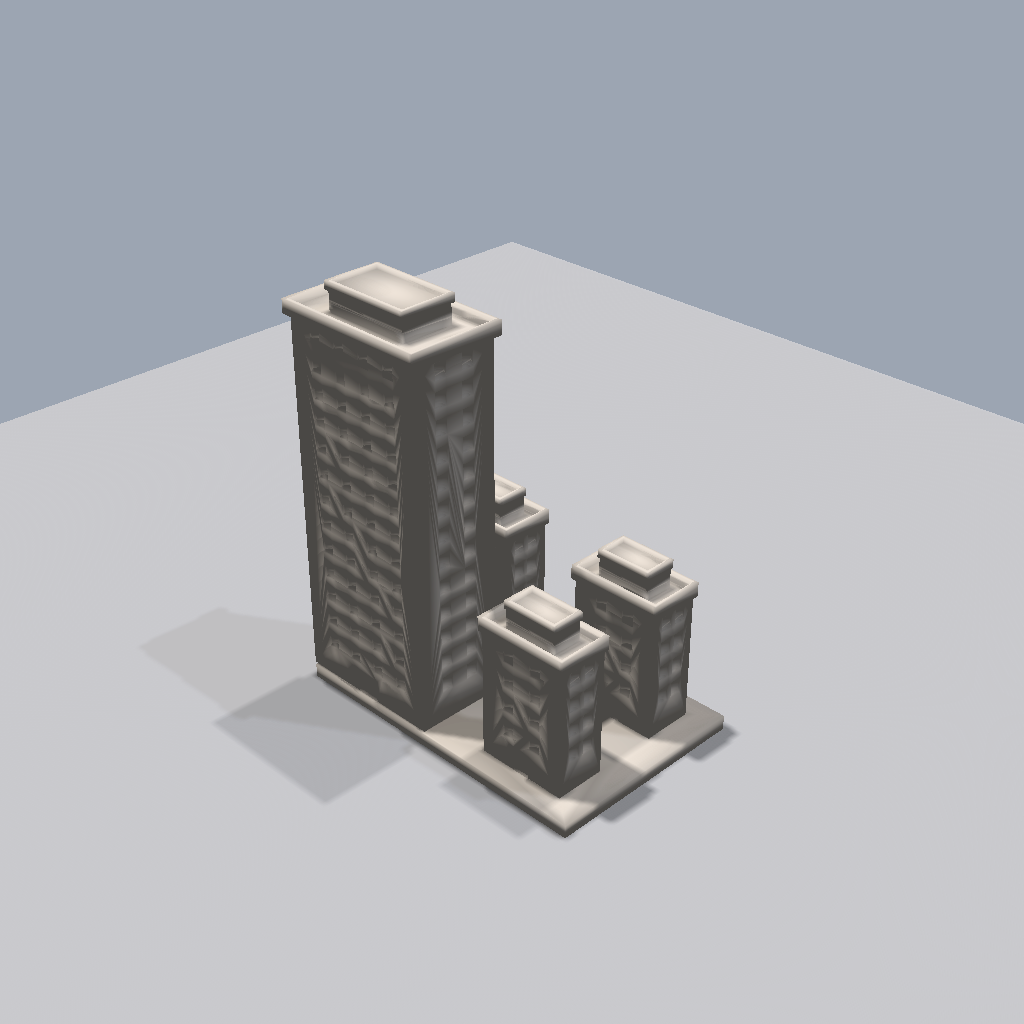
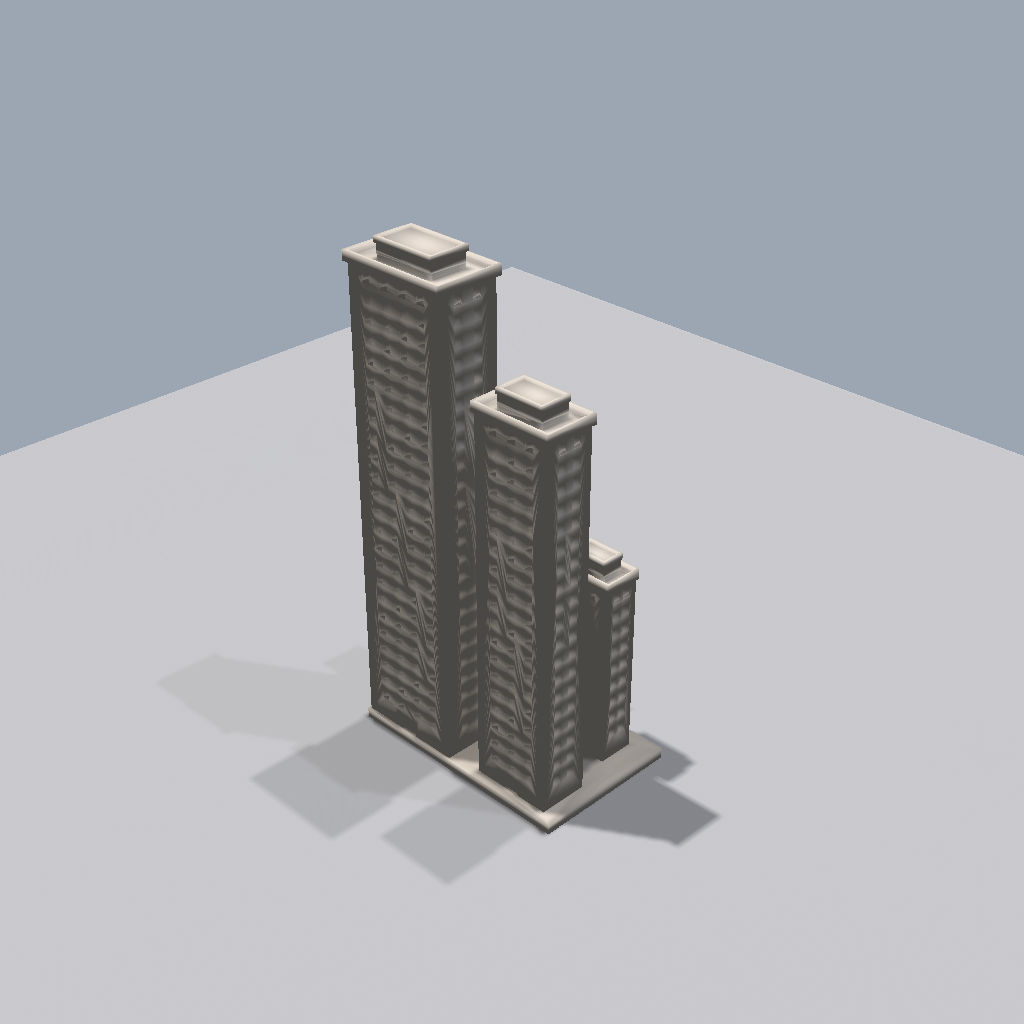
President preset: cascading 25/20/15/10 floor skyline
Use distinct roles (main/tower/wing/annex) with per-role size_hints
to achieve exact floor counts: 25 (132mm), 20 (107mm), 15 (82mm),
10 (57mm) — a dramatic stepped city skyline.

https://claude.ai/code/session_014R5FYiEwm7nQbzdvZzriYj

Changed region(s): [[0.0, 0.2188, 1.0, 0.875]]

diff --git a/src/hotel_generator/complex/presets.py b/src/hotel_generator/complex/presets.py
@@ -84,13 +84,15 @@ _register(HotelPreset(
 _register(HotelPreset(
     name="president",
     display_name="President",
-    description="Imposing modern tower complex with commanding main building and annexes",
+    description="Imposing modern tower complex with cascading heights",
     style_name="modern",
     num_buildings=4,
-    building_roles=["main", "annex", "annex", "annex"],
+    building_roles=["main", "tower", "wing", "annex"],
     size_hints={
-        "main": {"width": 1.0, "depth": 0.7, "floors": 2.0},
-        "annex": {"width": 0.6, "depth": 0.4, "floors": 0.85},
+        "main": {"width": 1.0, "depth": 0.7, "floors": 3.58},     # 25 floors
+        "tower": {"width": 0.75, "depth": 0.55, "floors": 2.86},   # 20 floors
+        "wing": {"width": 0.65, "depth": 0.45, "floors": 2.15},    # 15 floors
+        "annex": {"width": 0.55, "depth": 0.4, "floors": 1.43},    # 10 floors
     },
 ))
 
